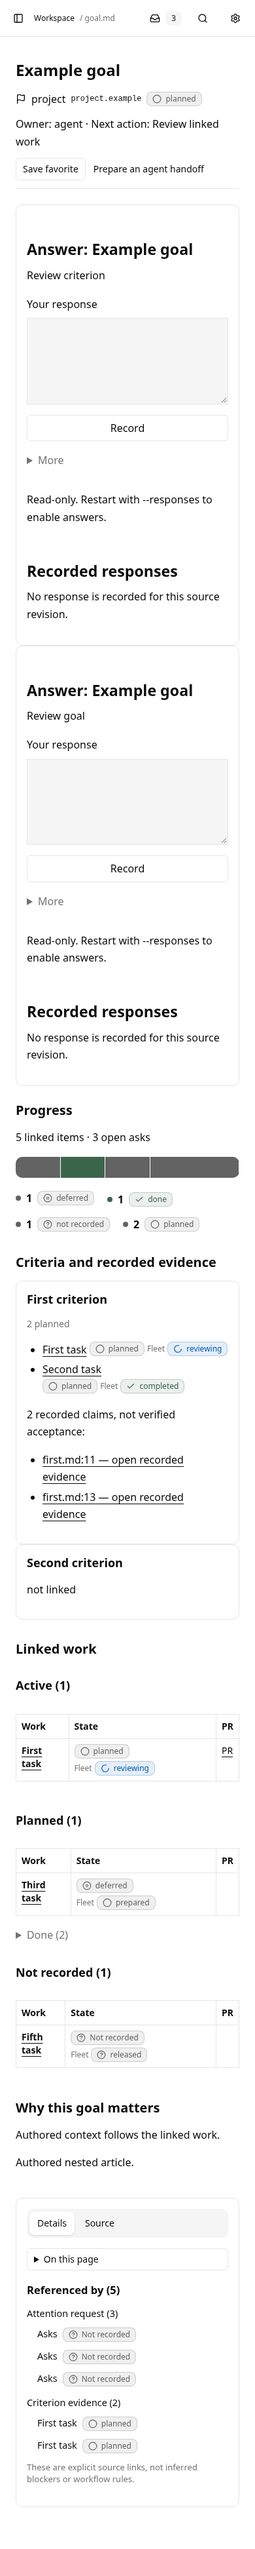
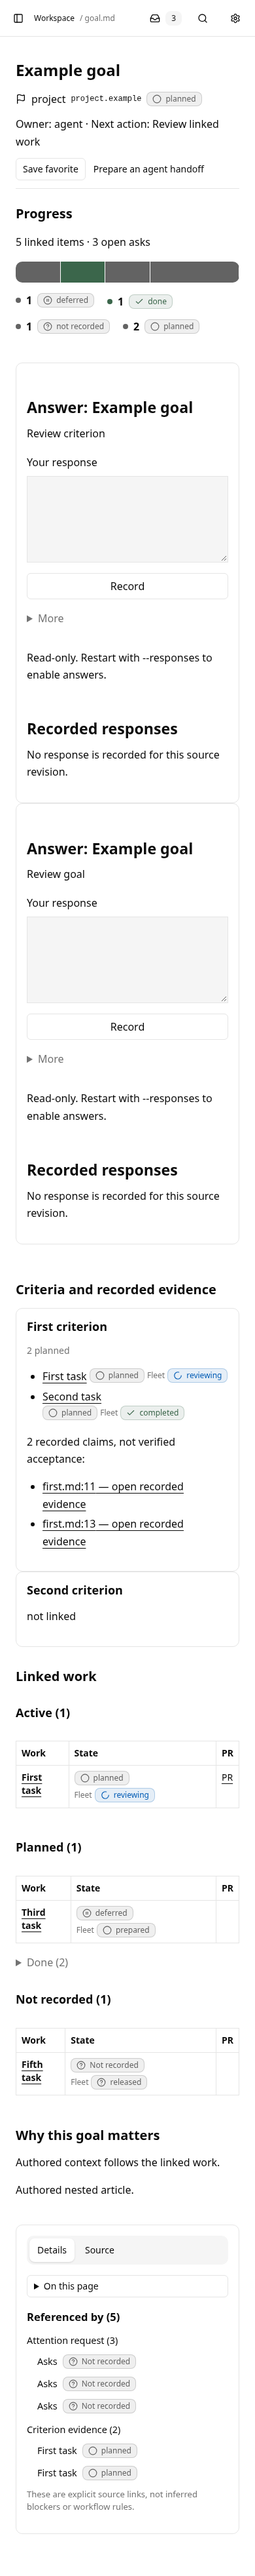
Project progress appears before open answer cards

diff --git a/packages/work-board/src/client/react/GoalPage.dom.test.tsx b/packages/work-board/src/client/react/GoalPage.dom.test.tsx
@@ -34,7 +34,13 @@ it.live.each(["executing", "reviewing", "needs-human"] as const)(
 		);
 		try {
 			yield* Effect.promise(() => eventually(() => expect(view.container.querySelectorAll("[data-goal-item]")).toHaveLength(5)));
-			expect(view.container.querySelector(".item-introduction")?.nextElementSibling?.className).toContain("answer-cards");
+			const header = view.container.querySelector(".item-introduction");
+			const progress = view.container.querySelector('[data-goal-section="progress"]');
+			const answers = view.container.querySelector(".answer-cards");
+			expect(header?.nextElementSibling).toBe(progress);
+			expect(progress?.nextElementSibling).toBe(answers);
+			expect(answers).not.toBeNull();
+			expect(answers?.compareDocumentPosition(view.container.querySelector("article.doc") ?? document.body)).toBe(Node.DOCUMENT_POSITION_FOLLOWING);
 			yield* Effect.promise(() => eventually(() => expect(view.container.querySelector("[data-goal-open-asks]")).not.toBeNull()));
 			const goal = readProgress()?.goals.find((entry) => entry.id === "project.example");
 			if (!goal) {
@@ -50,7 +56,8 @@ it.live.each(["executing", "reviewing", "needs-human"] as const)(
 			expect(counts).toEqual(goal.counts);
 			expect(view.container.querySelector('[data-goal-section="progress"]')?.textContent).toContain("5 linked items");
 			expect(view.container.querySelector("[data-goal-open-asks]")?.textContent).toBe(`${goal.openAsks} open asks`);
-			expect(view.container.querySelector(".goal-page")?.textContent).not.toMatch(/%|No recorded evidence naming/u);
+			expect(progress?.textContent).not.toContain("%");
+			expect(view.container.querySelector(".goal-page")?.textContent).not.toContain("No recorded evidence naming");
 			for (const [status, count] of Object.entries(counts)) {
 				const legend = [...view.container.querySelectorAll("[data-goal-counts] li")].find(
 					(entry) => entry.querySelector("[data-status-token]")?.textContent === status,
@@ -92,7 +99,10 @@ it.live.each(["executing", "reviewing", "needs-human"] as const)(
 			expect(view.container.querySelector<HTMLDetailsElement>('[data-goal-group="Done"]')?.open).toBe(false);
 			expect(view.container.querySelector("article.doc")?.firstElementChild?.className).toContain("goal-page");
 			yield* Effect.promise(() =>
-				eventually(() => expect(view.container.querySelector('.document-outline a[href="#heading-why-this-goal-matters"]')).not.toBeNull()),
+				eventually(() => {
+					expect(view.container.querySelector('.document-outline a[href="#heading-why-this-goal-matters"]')).not.toBeNull();
+					expect(view.container.querySelector(`.document-outline a[href="#${progress?.querySelector("h2")?.id}"]`)).not.toBeNull();
+				}),
 			);
 		} finally {
 			yield* Effect.promise(() => view.unmount());

diff --git a/packages/work-board/src/client/document/View.ts b/packages/work-board/src/client/document/View.ts
@@ -44,6 +44,7 @@ export interface DocumentViewProps {
 	readonly document: Document;
 	readonly idPrefix?: string;
 	readonly introduction?: ReactNode;
+	readonly lead?: ReactNode;
 }
 
 const LayoutContext = createContext<{
@@ -51,6 +52,7 @@ const LayoutContext = createContext<{
 	readonly context: ReactNode;
 	readonly content: ReactNode;
 	readonly introduction: ReactNode;
+	readonly lead: ReactNode;
 	readonly file: string;
 	readonly identified: boolean;
 }>({
@@ -60,6 +62,7 @@ const LayoutContext = createContext<{
 	file: "",
 	identified: false,
 	introduction: null,
+	lead: null,
 });
 const layoutComponents: Components = { ...components, article: LayoutArticle, header: LayoutHeader };
 function LayoutArticle({ node, children, ...props }: React.ComponentProps<"article"> & import("react-markdown").ExtraProps) {
@@ -67,7 +70,7 @@ function LayoutArticle({ node, children, ...props }: React.ComponentProps<"artic
 	return createElement("article", props, node?.properties.dataSource === undefined ? null : content, children);
 }
 function LayoutHeader({ node: _node, children, ...props }: React.ComponentProps<"header"> & import("react-markdown").ExtraProps) {
-	const { answer, context, introduction, file, identified } = useContext(LayoutContext);
+	const { answer, context, introduction, lead, file, identified } = useContext(LayoutContext);
 	const header = createElement("header", props, children);
 	if (!props.className?.split(" ").includes("item-introduction")) {
 		return header;
@@ -81,11 +84,12 @@ function LayoutHeader({ node: _node, children, ...props }: React.ComponentProps<
 			Children.count(children) > 0 ? children : createElement("h1", { className: "font-mono" }, file),
 			introduction,
 		),
+		lead,
 		answer,
 		context,
 	);
 }
-export function DocumentView({ document, idPrefix = "", context, content, introduction, board, answer }: DocumentViewProps) {
+export function DocumentView({ document, idPrefix = "", context, content, introduction, board, answer, lead }: DocumentViewProps) {
 	const layout = context !== undefined;
 	const identity = document.identity ?? document.file;
 	const states = useMemo(() => ({ identity, values: new Map<string, boolean>() }), [identity]);
@@ -112,7 +116,7 @@ export function DocumentView({ document, idPrefix = "", context, content, introd
 			{ key: states.identity, value: states.values },
 			createElement(
 				LayoutContext.Provider,
-				{ value: { answer, content, context, file: document.file, identified: Boolean(document.metadata.id), introduction } },
+				{ value: { answer, content, context, file: document.file, identified: Boolean(document.metadata.id), introduction, lead } },
 				createElement(
 					MarkdownHooks,
 					{

diff --git a/packages/work-board/src/client/react/GoalPage.tsx b/packages/work-board/src/client/react/GoalPage.tsx
@@ -1,16 +1,13 @@
 import { Option } from "effect";
-import { useId } from "react";
 import { useQuery } from "@shivaedev/effect-react/result-state.ts";
 import type { Document } from "#browser/document/schema.ts";
 import { routeQueryOptions } from "#client/page/routeQuery.ts";
 import { GoalCriteria } from "./GoalCriteria.tsx";
-import { GoalProgressSummary } from "./GoalProgressSummary.tsx";
 import { GoalWorkTable } from "./GoalWorkTable.tsx";
 import { targetsGoal } from "./goalWork.ts";
 import type { ShellApi } from "./ShellApi.ts";
 
 export function GoalPage({ api, document }: { readonly api: ShellApi; readonly document: Document }) {
-	const headingId = useId();
 	const progress = useQuery(api.goals.query(undefined, routeQueryOptions), { keepPreviousData: true });
 	const work = useQuery(api.work.query({ url: "/_board/work" }, routeQueryOptions), { keepPreviousData: true });
 	const goal = Option.getOrUndefined(progress.data)?.goals.find((entry) => entry.id === document.identity);
@@ -18,22 +15,6 @@ export function GoalPage({ api, document }: { readonly api: ShellApi; readonly d
 	const items = data ? [...data.items, ...data.boards].filter((item) => targetsGoal(item, document.identity ?? "")) : undefined;
 	return (
 		<div className="goal-page space-y-6">
-			<section aria-labelledby={headingId} data-goal-section="progress">
-				<h2 className="!mt-0" id={headingId}>
-					Progress
-				</h2>
-				{goal ? (
-					<>
-						<p>
-							{goal.linked} linked items · <span data-goal-open-asks>{goal.openAsks} open asks</span>
-						</p>
-						<GoalProgressSummary bar counts={goal.counts} />
-					</>
-				) : (
-					<p role="status">{progress.pending ? "Loading goal progress…" : "Progress is available for uniquely identified open projects."}</p>
-				)}
-				{Option.isSome(progress.cause) && <p role="status">Goal progress refresh failed.</p>}
-			</section>
 			<GoalCriteria document={document} items={items} progress={goal?.criteria} />
 			{items ? <GoalWorkTable items={items} /> : <p role="status">{work.pending ? "Loading linked work…" : "Linked work unavailable."}</p>}
 			{Option.isSome(work.cause) && <p role="status">Linked work refresh failed.</p>}

diff --git a/packages/work-board/src/client/react/GoalProgressHeader.tsx b/packages/work-board/src/client/react/GoalProgressHeader.tsx
@@ -1,0 +1,31 @@
+import { Option } from "effect";
+import { useId } from "react";
+import { useQuery } from "@shivaedev/effect-react/result-state.ts";
+import type { Document } from "#browser/document/schema.ts";
+import { routeQueryOptions } from "#client/page/routeQuery.ts";
+import { GoalProgressSummary } from "./GoalProgressSummary.tsx";
+import type { ShellApi } from "./ShellApi.ts";
+
+export function GoalProgressHeader({ api, document }: { readonly api: ShellApi; readonly document: Document }) {
+	const headingId = useId();
+	const progress = useQuery(api.goals.query(undefined, routeQueryOptions), { keepPreviousData: true });
+	const goal = Option.getOrUndefined(progress.data)?.goals.find((entry) => entry.id === document.identity);
+	return (
+		<section aria-labelledby={headingId} className="document-lead col-span-full max-w-[68ch] space-y-4" data-goal-section="progress">
+			<h2 className="font-semibold text-xl" id={headingId}>
+				Progress
+			</h2>
+			{goal ? (
+				<>
+					<p>
+						{goal.linked} linked items · <span data-goal-open-asks>{goal.openAsks} open asks</span>
+					</p>
+					<GoalProgressSummary bar counts={goal.counts} />
+				</>
+			) : (
+				<p role="status">{progress.pending ? "Loading goal progress…" : "Progress is available for uniquely identified open projects."}</p>
+			)}
+			{Option.isSome(progress.cause) && <p role="status">Goal progress refresh failed.</p>}
+		</section>
+	);
+}

diff --git a/packages/work-board/src/client/react/entry.css b/packages/work-board/src/client/react/entry.css
@@ -193,6 +193,7 @@
 	.item-context p {
 		@apply my-3;
 	}
+	.document-lead [id],
 	.item-context [id],
 	.reading-column [id] {
 		scroll-margin-top: 15rem;
@@ -208,19 +209,32 @@
 	}
 }
 
-.document-layout:has(> .answer-cards) > .answer-cards {
+.document-layout {
+	--document-leading-rows: 0;
+}
+.document-layout:has(> .document-lead),
+.document-layout:has(> .answer-cards) {
+	--document-leading-rows: 1;
+}
+.document-layout:has(> .document-lead):has(> .answer-cards) {
+	--document-leading-rows: 2;
+}
+.document-layout > .document-lead {
 	grid-row-start: 2;
 }
-.document-layout:has(> .answer-cards) > :is(article, .board) {
-	grid-row-start: 3;
+.document-layout > .answer-cards {
+	grid-row-start: calc(1 + var(--document-leading-rows));
 }
-.document-layout:has(> .answer-cards) > aside {
-	grid-row-start: 4;
+.document-layout > :is(article, .board) {
+	grid-row-start: calc(2 + var(--document-leading-rows));
+}
+.document-layout > aside {
+	grid-row-start: calc(3 + var(--document-leading-rows));
 }
 
 @media (min-width: 1024px) {
-	.document-layout:has(> .answer-cards) > :is(aside, article, .board) {
-		grid-row-start: 3;
+	.document-layout > aside {
+		grid-row-start: calc(2 + var(--document-leading-rows));
 	}
 }
 

diff --git a/packages/work-board/src/client/react/DocumentContext.tsx b/packages/work-board/src/client/react/DocumentContext.tsx
@@ -14,7 +14,8 @@ export function DocumentContext({ document: data }: { readonly document: Documen
 			const entries = [
 				...(contextRef.current
 					?.closest("main")
-					?.querySelectorAll<HTMLElement>(".item-introduction h1, :is(article.doc, .document-layout > .board) :is(h1,h2,h3,h4,h5,h6)") ?? []),
+					?.querySelectorAll<HTMLElement>(".item-introduction h1, :is(.document-lead, article.doc, .document-layout > .board) :is(h1,h2,h3,h4,h5,h6)")
+					?? []),
 			]
 				.filter((heading) => heading.id)
 				.map((heading) => ({ depth: Number(heading.tagName.slice(1)), id: heading.id, title: heading.textContent?.replace(/#$/u, "") ?? "" }));
@@ -31,8 +32,10 @@ export function DocumentContext({ document: data }: { readonly document: Documen
 			return;
 		}
 		const count =
-			context.closest("main")?.querySelectorAll(".item-introduction h1[id], :is(article.doc, .document-layout > .board) :is(h1,h2,h3,h4,h5,h6)[id]")
-				.length ?? 0;
+			context
+				.closest("main")
+				?.querySelectorAll(".item-introduction h1[id], :is(.document-lead, article.doc, .document-layout > .board) :is(h1,h2,h3,h4,h5,h6)[id]").length
+			?? 0;
 		if (count !== headings.length) {
 			return;
 		}

diff --git a/packages/work-board/src/client/react/DocumentPage.tsx b/packages/work-board/src/client/react/DocumentPage.tsx
@@ -4,6 +4,7 @@ import { AnswerPanel } from "./AnswerPanel.tsx";
 import { DocumentContext } from "./DocumentContext.tsx";
 import { DocumentCriteria } from "./DocumentCriteria.tsx";
 import { GoalPage } from "./GoalPage.tsx";
+import { GoalProgressHeader } from "./GoalProgressHeader.tsx";
 import { ItemSummary } from "./ItemSummary.tsx";
 import type { ShellApi } from "./ShellApi.ts";
 export function DocumentPage({ document, api }: { readonly document: Document; readonly api?: ShellApi | undefined }) {
@@ -15,6 +16,7 @@ export function DocumentPage({ document, api }: { readonly document: Document; r
 			context={<DocumentContext document={document} />}
 			document={document}
 			introduction={<ItemSummary document={document} />}
+			lead={api && document.metadata.kind === "project" ? <GoalProgressHeader api={api} document={document} /> : undefined}
 		/>
 	);
 }

diff --git a/packages/work-board/README.md b/packages/work-board/README.md
@@ -409,7 +409,7 @@ Call this function with a revision whose source/context you have reviewed and a 
 
 `client.api.navigation.query({ current: "" })` returns compact destination `counts`, `inboxCount` (a number or `null` when the index is unavailable), and optional `home` with the configured home file and its unique identity. It contains no file tree. `client.api.library.query({})` loads document metadata on demand: `files` contain `path`, encoded `href`, `title`, `modified`, `kind` and `status`; `kinds` and `statuses` populate filters, and `fleetCount` counts hidden generated records. Optional `kind`, `status` and `showFleet` filter the files. Passing `folder: ""` lists root files and immediate folder descriptors; passing a folder path loads its direct files and immediate child folders. Folder descriptors contain `path`, `name` and descendant `count`. The shell reads active goal status counts from `client.api.goals.query()`; opening Library loads its own query.
 
-A `kind: project` page puts goal progress before its authored Markdown: a large segmented bar with the goals query's recorded status counts, the number of goal-specific open asks (including zero), criteria with their query status counts and recorded evidence, then a linked-work table. The bar renders `goal.counts` directly; Fleet activity does not replace or combine recorded statuses. These are work counts, never an overall success state or percentage. The open-ask count renders `goal.openAsks`; it counts authored open attention requests for the goal, its criteria or linked work, rather than the Inbox's grouped rows.
+A `kind: project` page puts goal progress before its authored Markdown: a large segmented bar with the goals query's recorded status counts, the number of goal-specific open asks (including zero), criteria with their query status counts and recorded evidence, then a linked-work table. The progress header sits immediately below the item header, before open answer cards. Criteria, linked work and prose follow the answer cards. The bar renders `goal.counts` directly; Fleet activity does not replace or combine recorded statuses. These are work counts, never an overall success state or percentage. The open-ask count renders `goal.openAsks`; it counts authored open attention requests for the goal, its criteria or linked work, rather than the Inbox's grouped rows.
 
 Each criterion lists its targeting items and shows recorded evidence when present. An untargeted criterion says **not linked**; absent evidence stays quiet. Criteria links and work rows show the authored StatusChip alongside a known Fleet stage, including released stages. The table shows each implementing item once under nonempty Active, Planned, Done (collapsed), Deferred or Not recorded groups. Grouping uses held Fleet stages when known and authored status otherwise; it does not change the query counts. Missing PRs leave blank cells. The outline rail remains beside the prose on wide screens and follows it on narrow screens. Closed projects are outside the open-goals query and show progress as unavailable.
 

diff --git a/packages/work-board/docs/north-star.md b/packages/work-board/docs/north-star.md
@@ -20,7 +20,7 @@ A handoff preserves reviewed direction in another readable file. A copied pointe
 
 Returned work needs the same discipline. An authored result and its evidence are claims to inspect. Human direction belongs to the exact report bytes and source path that prompted it; a later edit must not inherit an earlier acceptance. A report iteration can receive human acceptance while a criterion still lacks evidence. The board must keep those facts visible rather than compute a convenient overall success state.
 
-Goal progress shows the goals query's counts of linked work by recorded status and its goal-specific open-ask count, including zero. Criteria show their query status counts with linked work and recorded evidence; an untargeted criterion says "not linked". Missing evidence stays quiet, and lifecycle completion never establishes criterion acceptance. The goal page puts counts, criteria and linked work before the authored prose, with an outline rail for reading. Each implementing item appears once in a nonempty work group with its authored status, known Fleet stage (including released) and recorded PR. Fleet activity does not replace recorded status counts. Progress is never a computed overall success state or completion percentage.
+Goal progress shows the goals query's counts of linked work by recorded status and its goal-specific open-ask count, including zero. Criteria show their query status counts with linked work and recorded evidence; an untargeted criterion says "not linked". Missing evidence stays quiet, and lifecycle completion never establishes criterion acceptance. The goal page puts progress immediately below the item header, before open answer cards. Criteria, linked work and the authored prose follow, with an outline rail for reading. Each implementing item appears once in a nonempty work group with its authored status, known Fleet stage (including released) and recorded PR. Fleet activity does not replace recorded status counts. Progress is never a computed overall success state or completion percentage.
 
 ## What good looks like
 

diff --git a/packages/work-board/changes/goal-reading.md b/packages/work-board/changes/goal-reading.md
@@ -1,3 +1,3 @@
 ### Added
 
-- Project pages show the goals query's status counts and open-ask count, criteria with query counts, linked work and recorded evidence before the authored Markdown. Untargeted criteria say "not linked". Empty work groups and absent evidence stay quiet; work links and rows show authored status alongside known Fleet stages, including released, and leave absent PRs blank.
+- Project pages open with the goals query's status counts and open-ask count before open answer cards, followed by criteria with query counts, linked work and recorded evidence before the authored Markdown. Untargeted criteria say "not linked". Empty work groups and absent evidence stay quiet; work links and rows show authored status alongside known Fleet stages, including released, and leave absent PRs blank.
